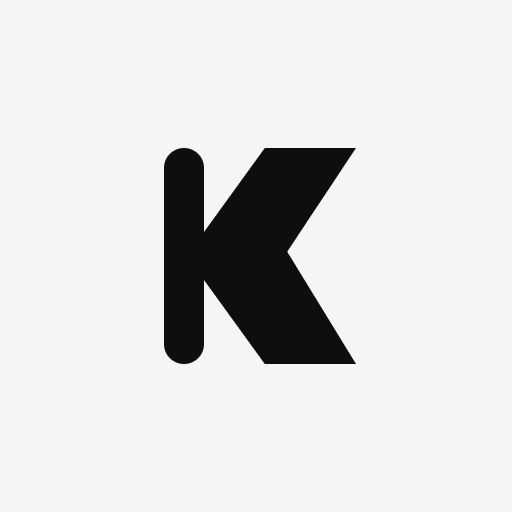
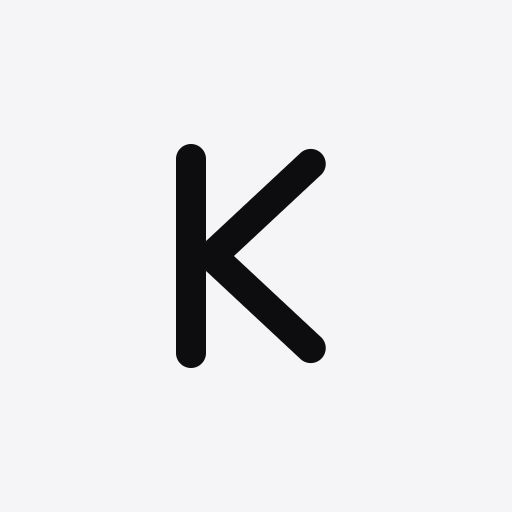
Refine Kaynak brand mark

Changed region(s): [[0.3125, 0.2812, 0.6875, 0.7188]]

diff --git a/assets/styles.css b/assets/styles.css
@@ -122,33 +122,42 @@ button {
 
 .brand-mark {
   position: relative;
-  width: 27px;
+  width: 26px;
   height: 29px;
   display: block;
   flex: 0 0 auto;
   color: currentColor;
 }
 
-.brand-mark::before {
-  content: "";
+.brand-stem {
   position: absolute;
   top: 1px;
-  bottom: 1px;
   left: 2px;
   width: 5px;
+  height: 27px;
   border-radius: 999px;
   background: currentColor;
 }
 
+.brand-mark::before,
 .brand-mark::after {
   content: "";
   position: absolute;
-  top: 1px;
-  right: 1px;
-  bottom: 1px;
-  left: 6px;
+  top: 12px;
+  left: 5px;
+  width: 19px;
+  height: 5px;
+  border-radius: 999px;
   background: currentColor;
-  clip-path: polygon(43% 0, 100% 0, 57% 48%, 100% 100%, 43% 100%, 0 56%, 0 44%);
+  transform-origin: 2.5px 50%;
+}
+
+.brand-mark::before {
+  transform: rotate(-43deg);
+}
+
+.brand-mark::after {
+  transform: rotate(43deg);
 }
 
 .nav-links {

diff --git a/datenschutz/index.html b/datenschutz/index.html
@@ -21,7 +21,7 @@
     <header class="site-header">
       <nav class="nav-shell" aria-label="Hauptnavigation">
         <a class="brand" href="/" aria-label="Kaynak UG Startseite">
-          <span class="brand-mark" aria-hidden="true"></span>
+          <span class="brand-mark" aria-hidden="true"><span class="brand-stem"></span></span>
           <span>Kaynak</span>
         </a>
         <button

diff --git a/impressum/index.html b/impressum/index.html
@@ -21,7 +21,7 @@
     <header class="site-header">
       <nav class="nav-shell" aria-label="Hauptnavigation">
         <a class="brand" href="/" aria-label="Kaynak UG Startseite">
-          <span class="brand-mark" aria-hidden="true"></span>
+          <span class="brand-mark" aria-hidden="true"><span class="brand-stem"></span></span>
           <span>Kaynak</span>
         </a>
         <button

diff --git a/index.html b/index.html
@@ -66,7 +66,7 @@
     <header class="site-header">
       <nav class="nav-shell" aria-label="Hauptnavigation">
         <a class="brand" href="/" aria-label="Kaynak UG Startseite">
-          <span class="brand-mark" aria-hidden="true"></span>
+          <span class="brand-mark" aria-hidden="true"><span class="brand-stem"></span></span>
           <span>Kaynak</span>
         </a>
         <button

diff --git a/404.html b/404.html
@@ -13,7 +13,7 @@
     <header class="site-header">
       <nav class="nav-shell" aria-label="Hauptnavigation">
         <a class="brand" href="/" aria-label="Kaynak UG Startseite">
-          <span class="brand-mark" aria-hidden="true"></span>
+          <span class="brand-mark" aria-hidden="true"><span class="brand-stem"></span></span>
           <span>Kaynak</span>
         </a>
       </nav>

diff --git a/en/index.html b/en/index.html
@@ -42,7 +42,7 @@
     <header class="site-header">
       <nav class="nav-shell" aria-label="Main navigation">
         <a class="brand" href="/en/" aria-label="Kaynak UG home">
-          <span class="brand-mark" aria-hidden="true"></span>
+          <span class="brand-mark" aria-hidden="true"><span class="brand-stem"></span></span>
           <span>Kaynak</span>
         </a>
         <button

diff --git a/en/legal-notice/index.html b/en/legal-notice/index.html
@@ -21,7 +21,7 @@
     <header class="site-header">
       <nav class="nav-shell" aria-label="Main navigation">
         <a class="brand" href="/en/" aria-label="Kaynak UG home">
-          <span class="brand-mark" aria-hidden="true"></span>
+          <span class="brand-mark" aria-hidden="true"><span class="brand-stem"></span></span>
           <span>Kaynak</span>
         </a>
         <button

diff --git a/en/privacy/index.html b/en/privacy/index.html
@@ -21,7 +21,7 @@
     <header class="site-header">
       <nav class="nav-shell" aria-label="Main navigation">
         <a class="brand" href="/en/" aria-label="Kaynak UG home">
-          <span class="brand-mark" aria-hidden="true"></span>
+          <span class="brand-mark" aria-hidden="true"><span class="brand-stem"></span></span>
           <span>Kaynak</span>
         </a>
         <button
